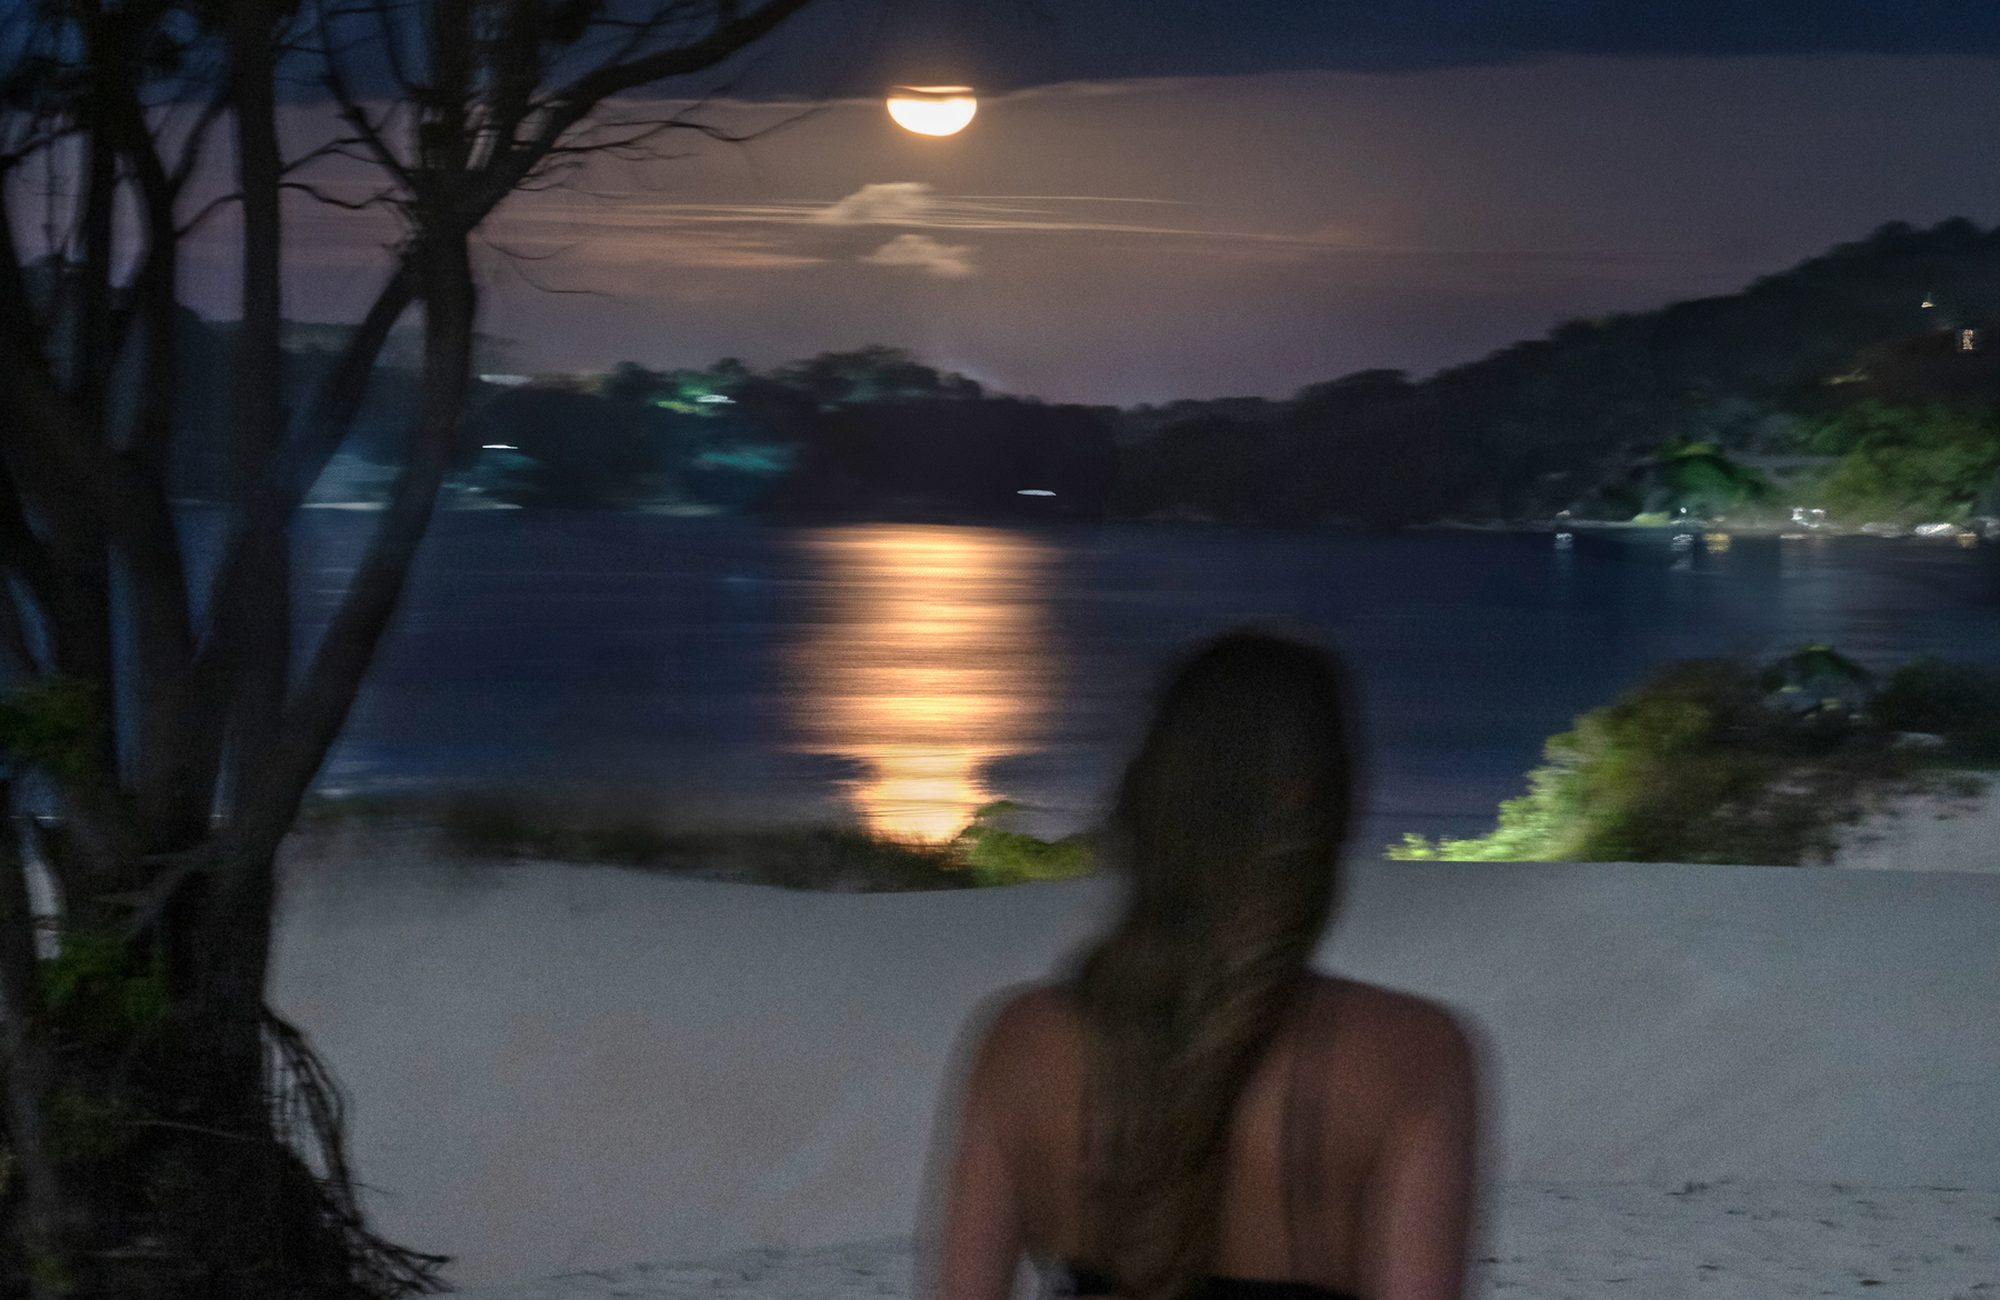
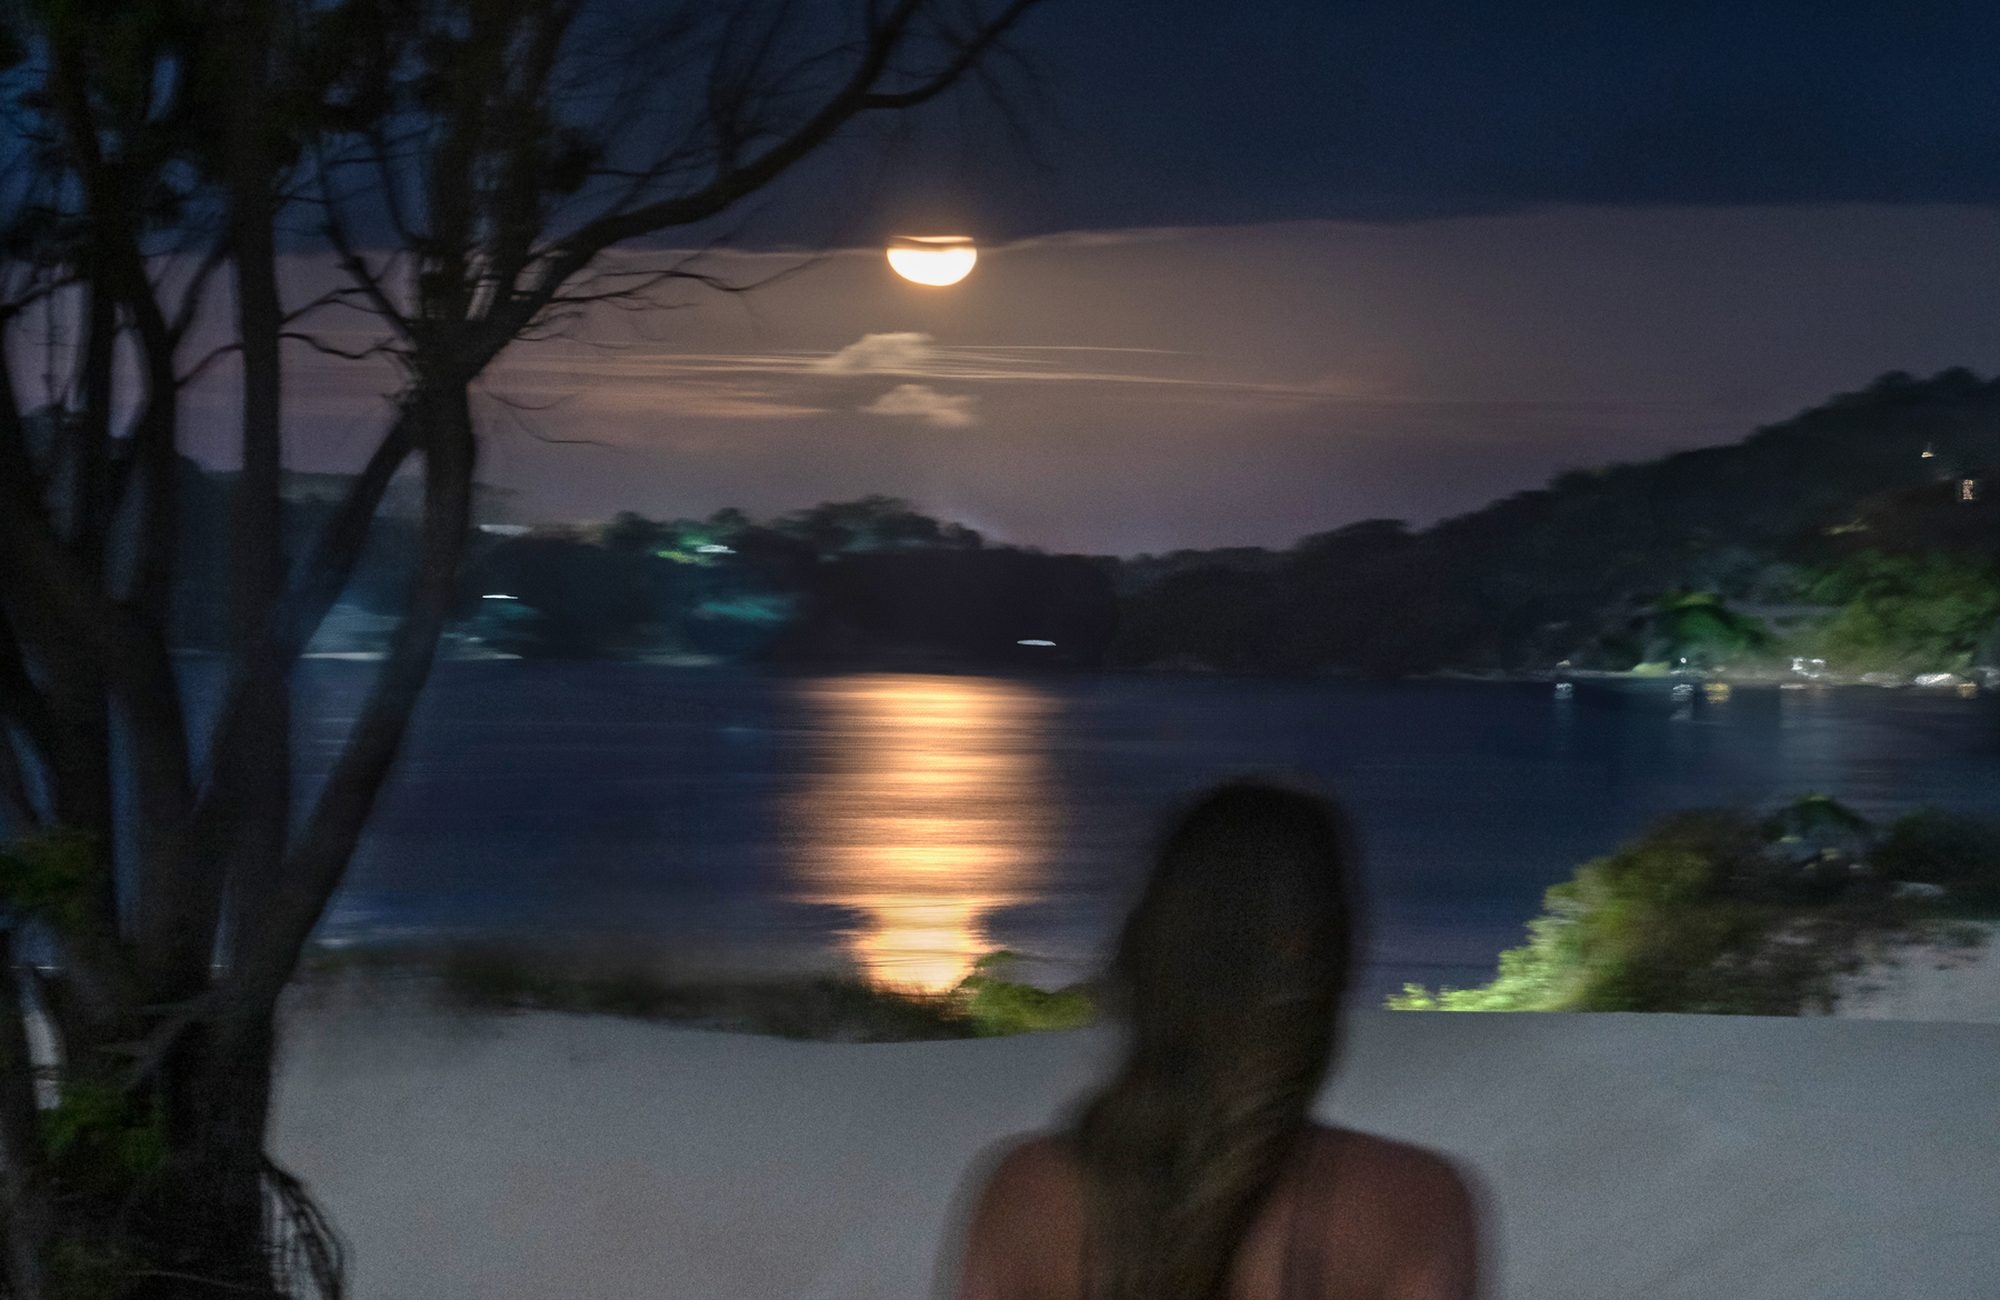
Limpa a capa: menos camadas disputando atenção
A capa acumulava foto, véu, campo de estrelas piscando, roda do mapa
girando, etiqueta, logo, frase, dois botões e a linha de rolagem. As
estrelas e a roda foram desenhadas para quando não havia fotografia;
com a foto da lua no lugar viraram ruído sobre ruído.

Saem o campo de estrelas — o céu da foto é real — e a exceção que
mantinha a roda girando mesmo com foto: agora ela segue a mesma regra
das outras artes e desaparece. Sai também a etiqueta "astrologia
aplicada · atendimento online": o logo já diz astrologia, e o
atendimento online aparece em cada card e nas dúvidas.

O recorte da capa sobe para que a lua tenha céu acima dela em vez de
encostar no topo, o logo diminui um pouco e o conteúdo desce, de modo
que a lua fique com o topo só para ela. Ficam quatro elementos em
sequência: lua, logo, frase, botões.

Remove as regras do campo de estrelas, que ficaram órfãs.

Claude-Session: https://claude.ai/code/session_01Br1jo9fmUWpjmYSoMpeEgi

diff --git a/assets/css/style.css b/assets/css/style.css
@@ -272,7 +272,7 @@ a { color: inherit; }
 
 /* na capa */
 .marca--capa { margin: 0 auto; }
-.marca--capa .marca__img { max-height: min(38vh, 300px); margin-inline: auto; }
+.marca--capa .marca__img { max-height: min(31vh, 250px); margin-inline: auto; }
 .marca--capa .marca__nome { font-size: clamp(2.6rem, 1.3rem + 6.4vw, 5.6rem); }
 .marca--capa .marca__tag  { font-size: clamp(.66rem, .56rem + .4vw, .84rem); margin-top: 1rem; }
 
@@ -357,7 +357,8 @@ a { color: inherit; }
   min-height: 100svh;
   display: grid;
   place-items: center;
-  padding: 7rem var(--gutter) 5rem;
+  /* o respiro extra no topo deixa a lua com espaço só dela */
+  padding: 11rem var(--gutter) 6rem;
   text-align: center;
   color: var(--papel);
   overflow: hidden;
@@ -368,26 +369,8 @@ a { color: inherit; }
 .hero__veil {
   position: absolute; inset: 0;
   background:
-    linear-gradient(180deg, rgba(43,36,28,.62) 0%, rgba(43,36,28,.34) 42%, rgba(43,36,28,.78) 100%);
+    linear-gradient(180deg, rgba(16, 39, 58, .58) 0%, rgba(16, 39, 58, .40) 44%, rgba(16, 39, 58, .82) 100%);
 }
-
-.starfield {
-  position: absolute; inset: 0;
-  opacity: .55;
-  background-image:
-    radial-gradient(1.6px 1.6px at 12% 22%, #fff, transparent),
-    radial-gradient(1.3px 1.3px at 78% 16%, #fff, transparent),
-    radial-gradient(1.9px 1.9px at 62% 68%, #fff, transparent),
-    radial-gradient(1.2px 1.2px at 28% 74%, #fff, transparent),
-    radial-gradient(1.5px 1.5px at 88% 52%, #fff, transparent),
-    radial-gradient(1.1px 1.1px at 44% 34%, #fff, transparent),
-    radial-gradient(1.7px 1.7px at 8% 58%, #fff, transparent),
-    radial-gradient(1.2px 1.2px at 92% 82%, #fff, transparent),
-    radial-gradient(1.4px 1.4px at 36% 8%, #fff, transparent),
-    radial-gradient(1.1px 1.1px at 68% 90%, #fff, transparent);
-  animation: cintilar 7s ease-in-out infinite alternate;
-}
-@keyframes cintilar { from { opacity: .3; } to { opacity: .7; } }
 
 .hero__content { position: relative; z-index: 3; max-width: 44rem; }
 
@@ -1029,7 +1012,7 @@ a { color: inherit; }
 
 /* ─── 22. IMPRESSÃO ───────────────────────────────────────── */
 @media print {
-  .nav, .wpp, .hero__scroll, .starfield { display: none !important; }
+  .nav, .wpp, .hero__scroll { display: none !important; }
   .reveal { opacity: 1 !important; transform: none !important; }
   body { background: #fff; color: #000; }
 }

diff --git a/index.html b/index.html
@@ -53,13 +53,10 @@
 <!-- ═══════════════ CAPA ═══════════════ -->
 <section class="hero" id="topo">
   <div class="hero__veil"></div>
-  <div class="starfield" aria-hidden="true"></div>
   <div class="arte arte--roda hero__roda" aria-hidden="true"></div>
 
   <div class="hero__content">
-    <p class="eyebrow reveal">Astrologia aplicada · Atendimento online</p>
-
-    <div class="marca marca--capa reveal" data-delay="1">
+    <div class="marca marca--capa reveal">
       <img class="marca__img" src="assets/img/logo.png" alt="Gabi Stadnick Astrologia">
       <div class="marca__texto" aria-hidden="true">
         <span class="marca__nome">Gabi Stadnick</span>
@@ -67,11 +64,11 @@
       </div>
     </div>
 
-    <p class="frase hero__frase reveal" data-delay="2">
+    <p class="frase hero__frase reveal" data-delay="1">
       Consciência gera escolha.<br>Escolha gera mudança.
     </p>
 
-    <div class="hero__actions reveal" data-delay="3">
+    <div class="hero__actions reveal" data-delay="2">
       <a class="btn btn--claro" href="#leituras">Ver as leituras</a>
       <a class="btn btn--ghost" href="#contato">Falar comigo</a>
     </div>

diff --git a/assets/js/main.js b/assets/js/main.js
@@ -97,12 +97,10 @@
 
   /* ── a arte vetorial some quando existe fotografia ──────────
      Cada espaço tem um desenho de reserva. Assim que a foto do
-     bloco carrega de verdade, o desenho sai de cena — sem isso os
-     dois ficariam sobrepostos. A roda da capa é exceção: ela foi
-     feita para conviver com a foto. */
+     bloco carrega de verdade, o desenho sai de cena. Sem isso os dois
+     ficam sobrepostos e a capa vira uma disputa: foto, estrelas, roda
+     girando, logo e texto ao mesmo tempo. */
   document.querySelectorAll('.arte').forEach(function (arte) {
-    if (arte.classList.contains('hero__roda')) return;
-
     var alvo = arte.parentElement;
     var fundo = getComputedStyle(alvo).backgroundImage;
     var achou = fundo && fundo.match(/url\(["']?([^"')]+)/);

diff --git a/ferramentas/preparar-imagens.py b/ferramentas/preparar-imagens.py
@@ -52,7 +52,7 @@ TRABALHOS = [
 
     # capa: a lua sobre a água. Escura, celeste, e você aparece pequena —
     # o texto branco fica legível por cima sem disputar com o seu rosto.
-    ("hero.jpg",                    "lua.jpg",          2000, 1300, 0.50, 0.30, 1.00, 82),
+    ("hero.jpg",                    "lua.jpg",          2000, 1300, 0.50, 0.25, 1.00, 82),
 
     # "Você não está perdida": duna ampla, você à direita.
     # O texto desse bloco entra pela esquerda, então vocês não se cruzam.
